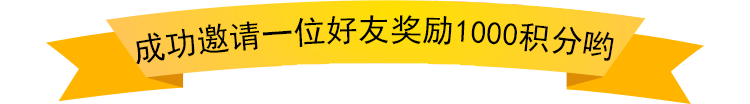
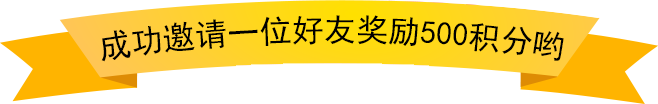
受邀好友

Changed region(s): [[0.0, 0.0, 1.0, 1.0], [0.3647, 0.6058, 0.4559, 0.6346]]

diff --git a/src/user/pages/invite/index.vue b/src/user/pages/invite/index.vue
@@ -4,14 +4,11 @@
 		<x-header :left-options="{showBack: true}" style="position:fixed;left:0;top:0;width:100%;" class="vux-scroller-header">邀请好友<a slot="right" v-touch:tap="_friend">受邀好友</a></x-header>
 	</div>
 	<img src="../../../assets/user/friend_title.png" class="title" />
-	<section class="step">
+	<section class="step">		
 		<article>
-			<h3>第一步</h3>
+			<h3>提示</h3>
 			<p>被邀请的好友需安装归纳本APP，且被邀请好友必须是新用户哦！</p>
-		</article>
-		<article>
-			<h3>第二步</h3>
-			<p>请好友在本界面填写您的邀请码，您和您的好友登录归纳本APP均可获得1000点积分。</p>
+			<p>请好友在本界面填写您的邀请码，您再次登录归纳本APP即可获得500积分。</p>
 		</article>
 	</section>
 	<section class="copyCode">

diff --git a/src/user/pages/invite/invite.less b/src/user/pages/invite/invite.less
@@ -7,7 +7,7 @@
 	.title{width:750/40em;height:104/40em;padding:45/40em 0 0}
 	.step {
 		margin-bottom:65/40em;
-		article{width:590/40em;height:155/40em;background: #ffffff;border-radius:5px;padding:.5em .75em .75em;margin:.5em auto;}
+		article{width:590/40em;background: #ffffff;border-radius:5px;padding:.5em .75em .75em;margin:.5em auto;}
 		h3{font-size:30/40em;color:#229bf5;padding:0 0 .5em;}
 		p{font-size:30/40em;color:#000;line-height:1.8em;}
 	}
@@ -26,4 +26,3 @@
 		display: none;
 	}
 }
-
